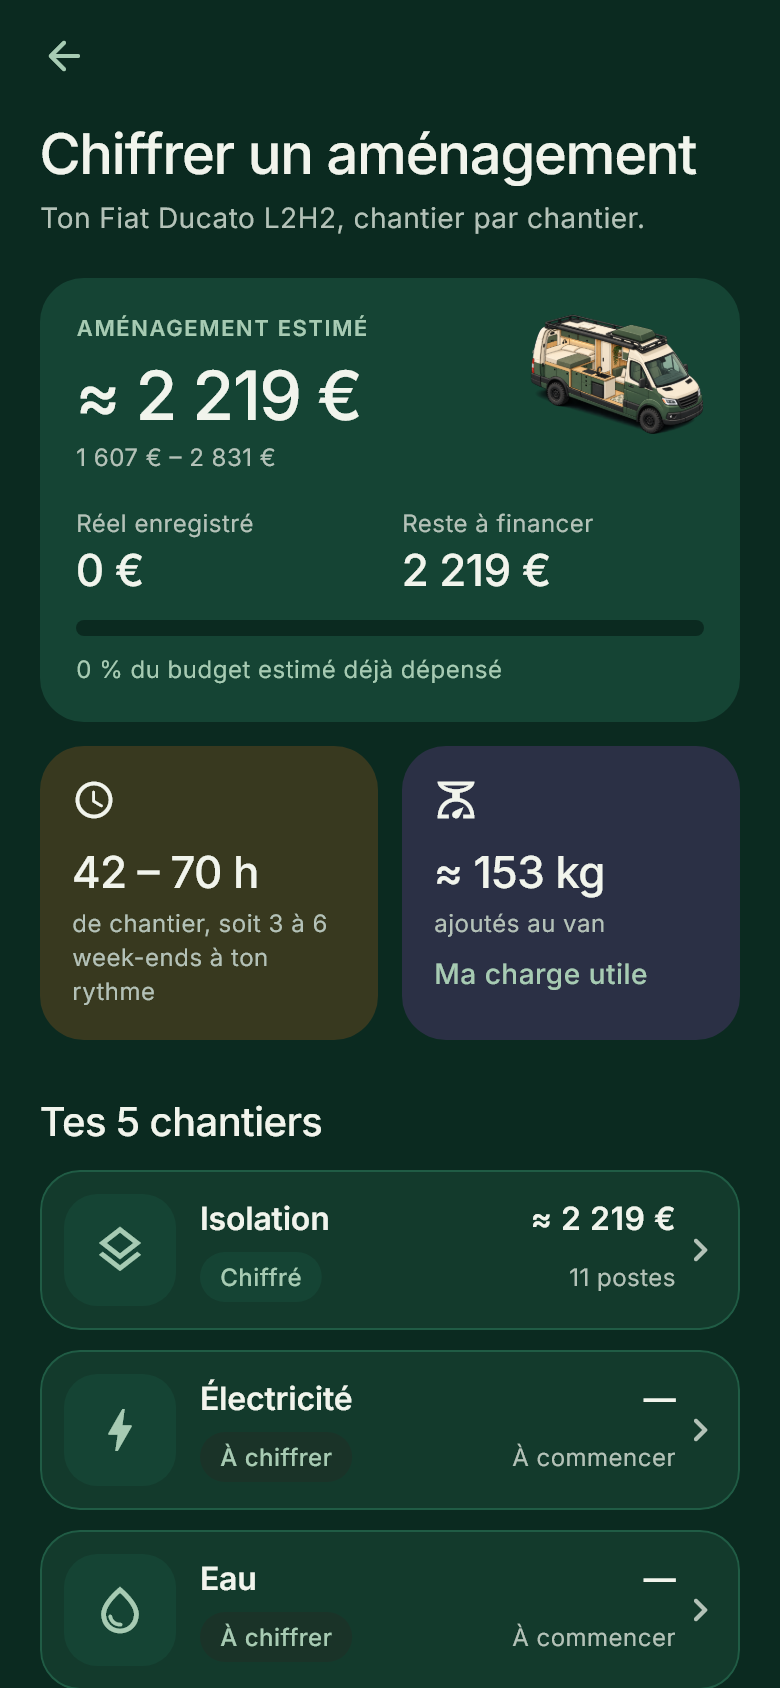
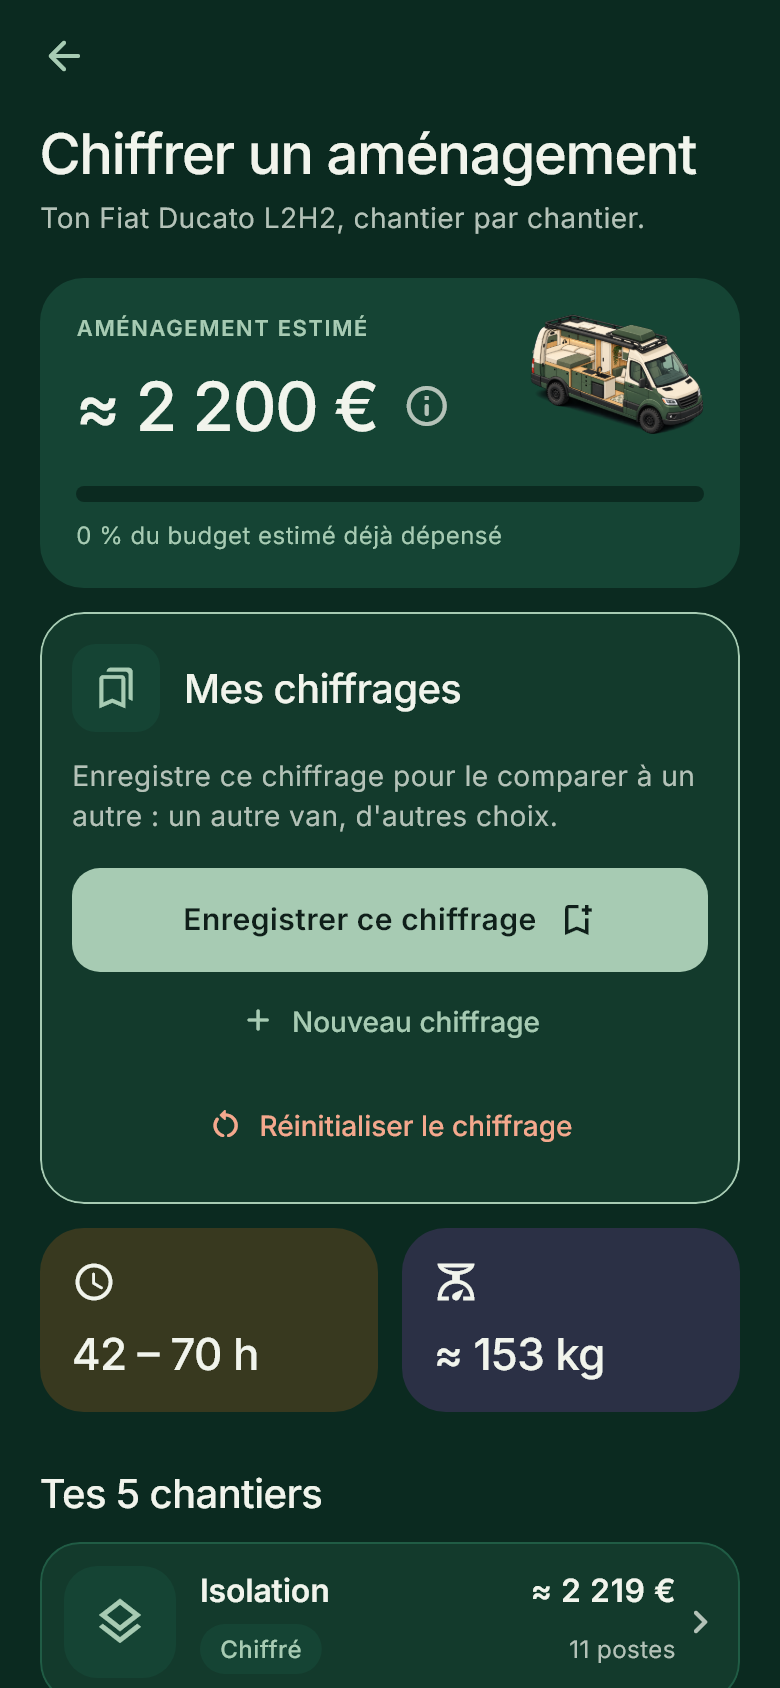
Actualise la page : chiffrages enregistrés et budget en un chiffre rond
La capture du chiffrage montre la nouvelle carte (≈ 2 200 €, la
fourchette derrière le « i ») et « Mes chiffrages ». Trouver mon van
ouvre le chiffrage d'un modèle, et l'encart « Des fourchettes » dit ce
que l'app affiche vraiment.

diff --git a/index.html b/index.html
@@ -389,6 +389,7 @@ footer .legal b { color: var(--ink); font-weight: 600; }
               <li><span>Les rappels officiels du site RappelConso, en direct.</span></li>
               <li><span>« Aussi vendu sous le nom de » : le même van sous une autre marque, pour élargir ta recherche.</span></li>
               <li><span>Ton van est immatriculé en Allemagne ? Les annonces, les rappels du KBA et les contrôles à l'achat suivent ton pays.</span></li>
+              <li><span>Un modèle te plaît ? « Chiffrer l'aménagement de ce van » : le chiffrage s'ouvre pour lui, sans rien te redemander.</span></li>
             </ul>
           </div>
           <img class="phone" src="img/trouver.png" width="780" height="1688" loading="lazy" alt="Les modèles et leur fiabilité : filtres par prix, taille et fiabilité, puis la fiche du Renault Kangoo Express Maxi, environ 9 250 €.">
@@ -401,14 +402,15 @@ footer .legal b { color: var(--ink); font-weight: 600; }
             <h3>Ton aménagement, au bon prix</h3>
             <p>Isolation, électricité, eau, chauffage, mobilier : chaque chantier est chiffré pour ton van et ta façon de voyager, et l'app te dit d'où vient chaque montant.</p>
             <ul class="points">
-              <li><span>Des fourchettes, jamais un chiffre magique, avec les postes qu'on oublie toujours : chutes, ossature, outillage.</span></li>
+              <li><span>Un budget réaliste en un chiffre rond, la fourchette juste derrière, avec les postes qu'on oublie toujours : chutes, ossature, outillage.</span></li>
+              <li><span>Enregistre tes chiffrages et compare-les côte à côte : deux vans, deux niveaux de finition, deux budgets.</span></li>
               <li><span>Les heures de chantier et le poids ajouté, face à la charge utile de ton van.</span></li>
               <li><span>Pas envie de tout choisir ? « L'app choisit pour moi » propose trois configurations à ton budget.</span></li>
               <li><span>La liste de courses, quantités comprises, à cocher au fil des achats.</span></li>
             </ul>
             <div class="quote"><b>Mousse élastomère 19 mm : 5 rouleaux de 4 m²</b><span>16,5 m² avec 10 % de chutes, pour les parois d'un Fiat Ducato L2H2</span></div>
           </div>
-          <img class="phone" src="img/projet.png" width="780" height="1688" loading="lazy" alt="Chiffrer un aménagement : environ 2 219 € estimés, 42 à 70 heures de chantier, 153 kg ajoutés, et les cinq chantiers.">
+          <img class="phone" src="img/projet.png" width="780" height="1688" loading="lazy" alt="Chiffrer un aménagement : environ 2 200 € estimés, la carte « Mes chiffrages » pour enregistrer et comparer, 42 à 70 heures de chantier, 153 kg ajoutés.">
         </article>
 
         <article class="stop reveal">
@@ -452,7 +454,7 @@ footer .legal b { color: var(--ink); font-weight: 600; }
             <p>Une fois sur la route, Van'Up suit ce qui doit l'être, en dessins plutôt qu'en tableaux. Elle sert aussi à qui a déjà un van aménagé.</p>
             <ul class="points">
               <li><span>Ton van en schéma : une pastille par zone (moteur, roues, papiers, toit, cellule), verte, ambre ou rouge selon son entretien.</span></li>
-              <li><span>Un carnet d'entretien selon ton équipement, chaque intervalle avec sa source, les douze prochains mois d'un coup d'œil, et des rappels sur ton téléphone.</span></li>
+              <li><span>Un carnet d'entretien selon ton équipement, chaque intervalle avec sa source, les douze prochains mois d'un coup d'œil, et des rappels sur ton téléphone. « Fait aujourd'hui » d'un geste.</span></li>
               <li><span>Eau, batterie, gaz : chaque réserve dessinée à son niveau. L'app apprend ta consommation et te dit combien de jours il te reste.</span></li>
               <li><span>Sur Android, un widget sur ton écran d'accueil : « plein » ou « vide » d'un toucher, sans ouvrir l'app.</span></li>
             </ul>
@@ -511,7 +513,7 @@ footer .legal b { color: var(--ink); font-weight: 600; }
         <div class="promise reveal">
           <svg viewBox="0 0 24 24" fill="none" stroke="currentColor" stroke-width="2" stroke-linecap="round" stroke-linejoin="round" aria-hidden="true"><path d="M2 12h4l3 8 6-16 3 8h4"/></svg>
           <h3>Des fourchettes, pas de promesse</h3>
-          <p>Un aménagement n'a jamais un seul prix : l'app le dit franchement.</p>
+          <p>Un aménagement n'a jamais un prix exact : l'app arrondit, écrit « ≈ », et te montre la fourchette d'un toucher.</p>
         </div>
         <div class="promise reveal">
           <svg viewBox="0 0 24 24" fill="none" stroke="currentColor" stroke-width="2" stroke-linecap="round" stroke-linejoin="round" aria-hidden="true"><path d="M12 3l8 4v5c0 5-3.5 8-8 9-4.5-1-8-4-8-9V7z"/><path d="M9 12l2 2 4-4"/></svg>
